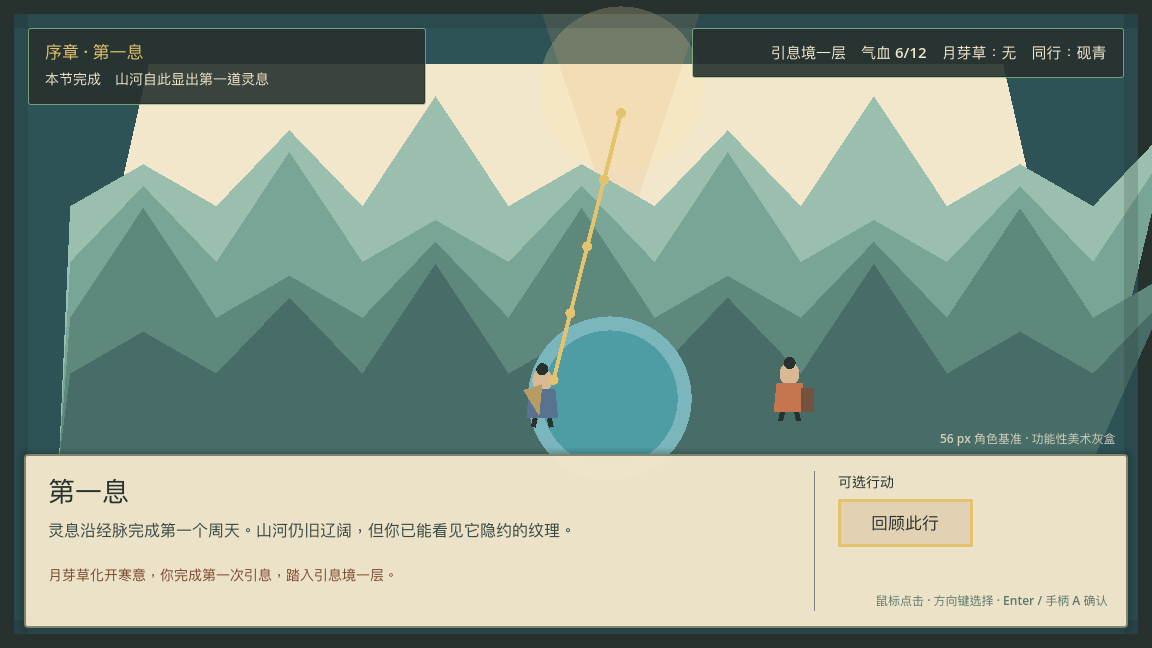
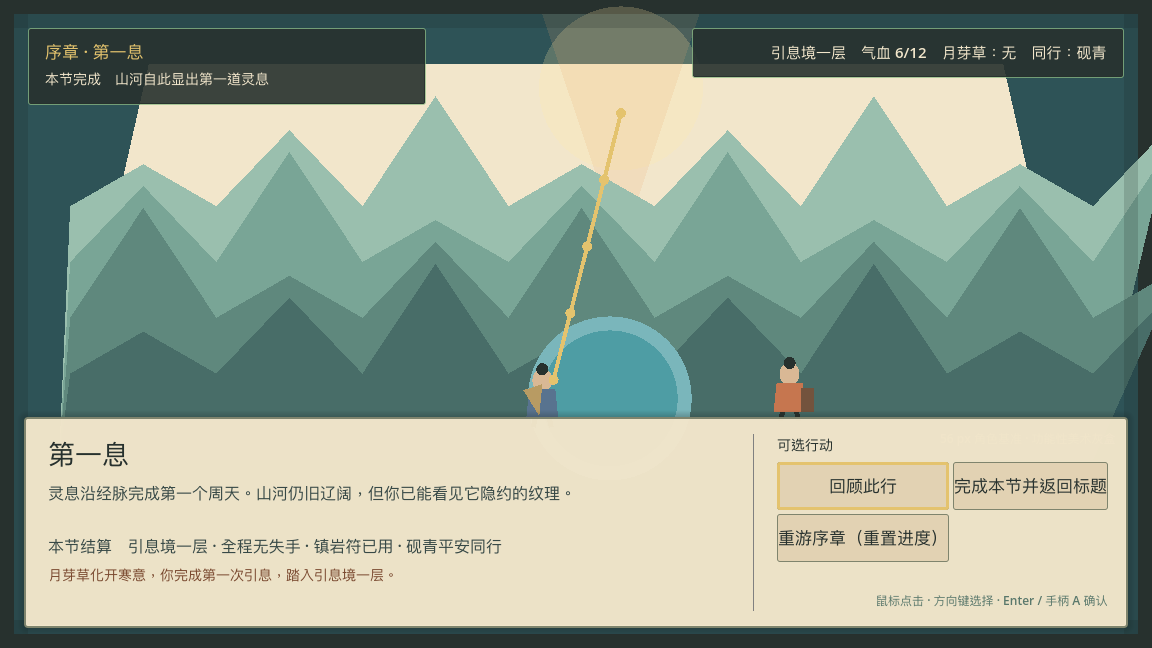
feat: close and replay the Godot chapter

Changed region(s): [[0.0, 0.6173, 1.0, 0.8642], [0.0312, 0.8025, 0.5, 0.8642]]

diff --git a/README.md b/README.md
@@ -3,11 +3,12 @@
 [![Checks](https://github.com/tomqwu/covenant-of-the-realm/actions/workflows/check.yml/badge.svg)](https://github.com/tomqwu/covenant-of-the-realm/actions/workflows/check.yml)
 [![Deterministic rules coverage](https://img.shields.io/badge/rules%20coverage-100%25-brightgreen)](docs/TESTING.md)
 [![Playable slice](https://img.shields.io/badge/multiplayer%20slice-playable-8a5cf5)](docs/VERTICAL_SLICE.md)
-[![RPG foundation](https://img.shields.io/badge/Godot%20RPG-graybox-4b8f8c)](rpg/README.md)
+[![Godot chapter](https://img.shields.io/badge/Godot%20chapter-playable-4b8f8c)](rpg/README.md)
 
 **《山河有契》**（英文工作名：**Covenant of the Realm**）正在发展为一款原创、
-中文优先、章节式的 2D 修仙剧情 RPG。新的 Godot 灰盒已经建立数据驱动行动、
-确定性回合战斗和首次境界突破；现有多人 MUD 与单人 PWA 作为可运行研究原型保留。
+中文优先、章节式的 2D 修仙剧情 RPG。Godot 可玩章节已经串联自由移动、碰撞、
+近距离采集、可撤退回合战斗、同伴援护、版本化存档和首次境界突破；现有多人
+MUD 与单人 PWA 作为可运行研究原型保留。
 
 ## Play the RPG graybox
 
@@ -20,10 +21,11 @@ make setup-rpg
 make play-rpg
 ```
 
-The current graybox uses original project locations and characters only. It validates the
-journey from preparation through a deterministic battle to `引息境一层`; map movement,
-controller input, save files, and the complete 90-minute chapter are the next implementation
-milestones. See the [RPG foundation](docs/design/RPG_FOUNDATION_v0.1.md).
+The current graybox uses original project locations and characters only. It is playable from a
+Chinese title screen through exploration, preparation, a recoverable deterministic battle,
+`引息境一层`, chapter settlement, save resume, and replay. Keyboard, mouse, and controller
+share semantic actions. Expanding this tested short chapter toward the complete 90-minute content
+target is the next production milestone. See the [RPG foundation](docs/design/RPG_FOUNDATION_v0.1.md).
 
 ## Play the preserved multiplayer slice
 
@@ -60,6 +62,7 @@ Open `http://127.0.0.1:4001/webclient/`. Create an account with:
 
 ```sh
 make test-rpg                # Godot domain and scene tests
+make test-rpg-e2e            # complete Godot new-game → ending → resume → replay path
 make rpg-content-check       # original story-graph integrity
 make test                    # rules, Evennia integration, real two-client E2E
 make lint                    # Ruff and documentation integrity
@@ -67,7 +70,12 @@ make check                   # RPG, MUD, and preserved PWA gates
 make test-multiplayer-e2e    # live server + real two-client journey only
 ```
 
-The deterministic domain rules have an enforced 99% statement/branch minimum and currently reach 100%. The MUD adapter has isolated Evennia tests, and the release path is exercised through two real concurrent Telnet clients. The preserved browser prototype retains its own 100% unit result and 53-execution Playwright matrix. See [testing](docs/TESTING.md), [architecture](docs/ARCHITECTURE.md), and the [vertical-slice contract](docs/VERTICAL_SLICE.md).
+The deterministic multiplayer domain rules have an enforced 99% statement/branch minimum and
+currently reach 100%. Godot behavior is covered by 150 headless rule/scene assertions plus an
+independent 14-check chapter E2E. The MUD adapter has isolated Evennia tests, and its release path
+is exercised through two real concurrent Telnet clients. The preserved browser prototype retains
+its own 100% unit result and 53-execution Playwright matrix. See [testing](docs/TESTING.md),
+[architecture](docs/ARCHITECTURE.md), and the [vertical-slice contract](docs/VERTICAL_SLICE.md).
 
 ## Repository map
 

diff --git a/docs/TESTING.md b/docs/TESTING.md
@@ -4,7 +4,9 @@
 
 | Boundary | Gate | Current result |
 | --- | --- | --- |
-| Deterministic cultivation rules | pytest + branch coverage, minimum 99% | 40 tests; 100% statements and branches |
+| Deterministic cultivation rules | pytest + branch coverage, minimum 99% | 50 tests; 100% statements and branches |
+| Godot RPG rules and scenes | headless GDScript harness | 150 assertions passing |
+| Godot RPG chapter path | independent headless E2E | 14 checks: new game → exploration → retreat → battle → breakthrough → resume → replay |
 | Evennia commands and world bootstrap | Evennia isolated database harness | command, localization, and bootstrap integration tests passing |
 | Multiplayer release path | real server, two real Telnet clients | 中文注册 → 登录 → 采药 → 修炼 → 协作 → 突破 → 重连持久化 |
 | Browser journey prototype | Vitest and Playwright | 100% unit metrics; 53 Playwright executions passing |
@@ -17,6 +19,8 @@ The percentage badge describes the deterministic production rules, not transport
 make test-unit              # rules and coverage gate
 make test-integration       # Evennia command/database fixtures
 make test-multiplayer-e2e   # migrate, boot, two clients, stop
+make test-rpg               # Godot rules and scene integration
+make test-rpg-e2e           # complete Godot chapter path and persistence
 make lint                   # Ruff and local Markdown links
 make check-mud              # all multiplayer gates
 make check-prototype        # preserved PWA's complete evidence suite
@@ -27,13 +31,14 @@ make check                  # entire repository
 
 ## CI
 
-GitHub Actions runs three pinned, least-privilege jobs:
+GitHub Actions runs four pinned, least-privilege jobs:
 
 1. deterministic coverage, lint, docs, and Evennia integration;
 2. live two-player multiplayer E2E;
-3. the preserved prototype's full browser/unit/build matrix.
+3. Godot content, rule/scene, and complete chapter E2E;
+4. the preserved prototype's full browser/unit/build matrix.
 
-Dependency updates are monitored separately for the root uv lock and the nested npm lock. A pull request must pass all three jobs before merge.
+Dependency updates are monitored separately for the root uv lock and the nested npm lock. A pull request must pass all four jobs before merge.
 
 ## Adding behavior
 

diff --git a/docs/DECISIONS.md b/docs/DECISIONS.md
@@ -36,6 +36,14 @@ setback is recorded. If player health reaches zero, the chapter companion rescue
 the ferry with a playable health floor. Companion first aid is an explicit once-per-attempt
 action, not an invisible damage modifier.
 
+### 2026-08-01 — Explicit chapter closure and replay
+
+The vertical slice ends on a settlement state that shows realm, setbacks, remaining consumables,
+and companion outcome. From there the player can review, save and return to title, or explicitly
+reset the chapter for replay. The release gate includes a separate headless path that starts at
+the title, performs proximity gathering and a retreat/re-entry combat route, breaks through,
+reloads the completed save in a new scene instance, and resets into replay.
+
 ### 2026-08-01 — Brighter and more optimistic visual tone
 
 Refine the confirmed hybrid art direction toward clear daylight, fresh air, visible water,

diff --git a/docs/PROJECT_CONTEXT.md b/docs/PROJECT_CONTEXT.md
@@ -133,7 +133,7 @@ Expand the executable RPG graybox into a complete 90-minute original chapter:
 7. versioned save/load, title/continue, and safe backup recovery (implemented; chapter replay remains);
 8. mouse, keyboard, and controller parity;
 9. original visual/audio direction with recorded provenance;
-10. new-game-to-chapter-end automated acceptance path.
+10. new-game-to-ending-to-save-resume-to-replay automated Godot acceptance path (implemented).
 
 ## Open decisions
 

diff --git a/docs/concepts/gameplay-ui-v1/README.md b/docs/concepts/gameplay-ui-v1/README.md
@@ -52,7 +52,8 @@ make capture-rpg-ui
 ![第一次引息完成画面](04-first-breath.png)
 
 雨后暖光替代黑暗神迹，角色仍保持凡人尺度。章节结算没有增加第二套 UI 或改变
-操作语义。
+操作语义。结算明确显示境界、撤退/救援次数、符箓消耗与同伴状态，并允许回顾、
+返回标题或重置后重游序章。
 
 ## 验证结论
 

diff --git a/rpg/README.md b/rpg/README.md
@@ -7,6 +7,7 @@
 make setup-rpg
 make play-rpg
 make test-rpg
+make test-rpg-e2e
 ```
 
 启动后可选择新游戏或继续本机的版本化存档。游戏会在成功交互、战斗行动和持续
